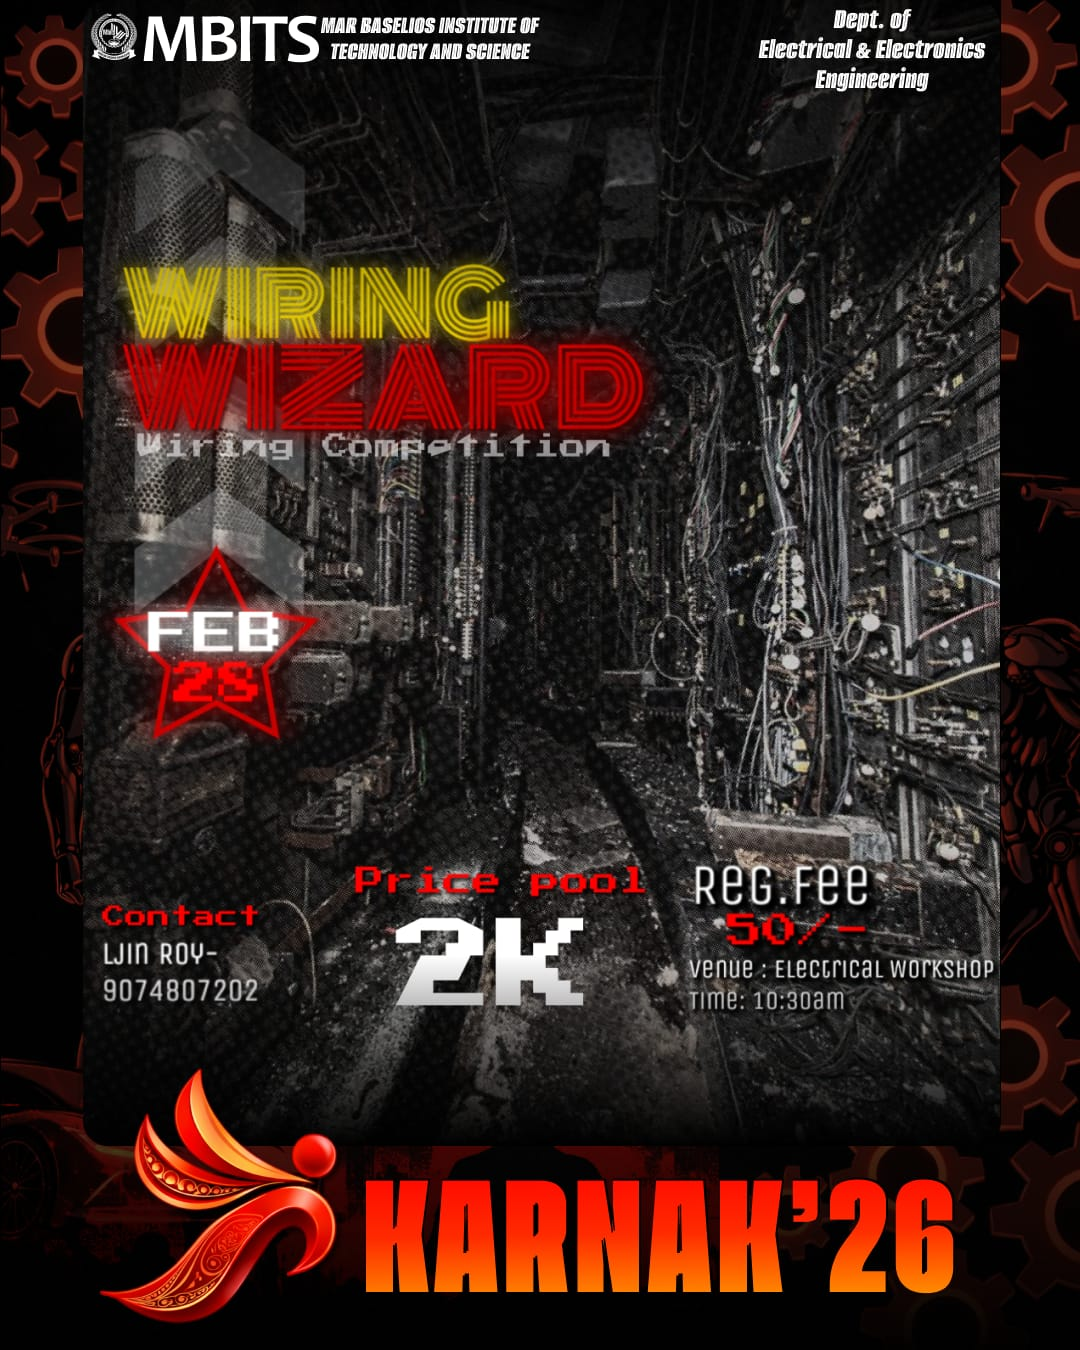
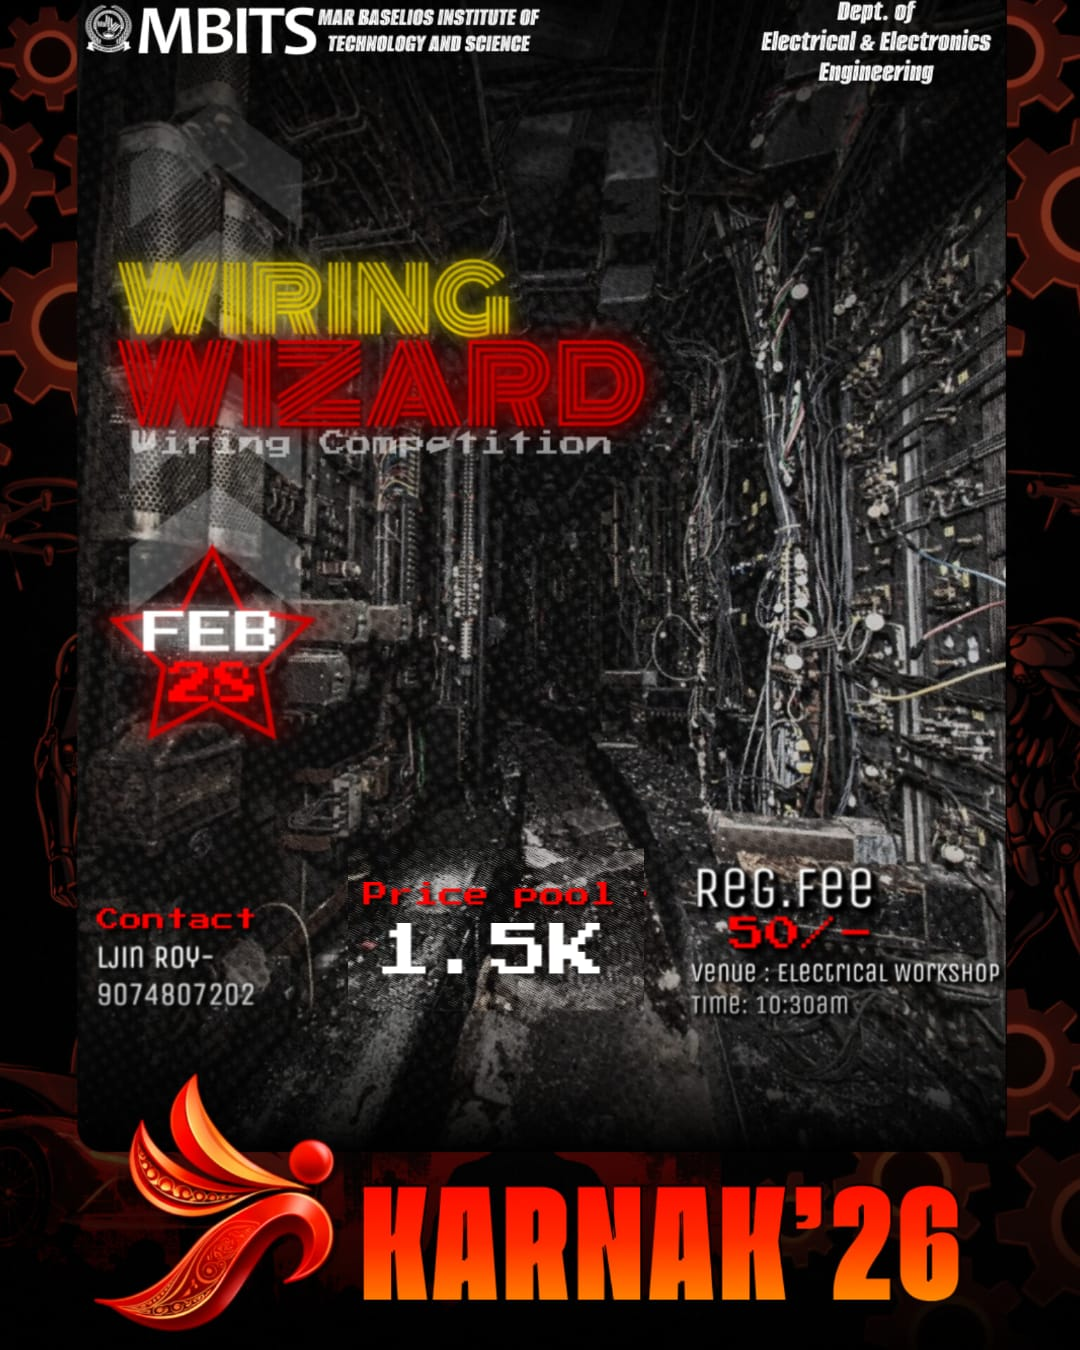
uvaibsj

diff --git a/src/app/pages/DepartmentEventsPage.tsx b/src/app/pages/DepartmentEventsPage.tsx
@@ -956,7 +956,7 @@ const departmentEvents: Record<string, any> = {
       {
         id: 6,
         name: 'Wiring wizards (wiring Competition)',
-        description: '🛠 “Every wire has a purpose and every connection has a consequence. Excellence comes from understanding both.\n”In the part of celebration of Karnak26 The department of electrical and electronics engineering presents the Wiring competition. A thrilling experience for speed,technical skill etc...\n\nRules and regulations\n●Phones are not allowed on arena \n●There will be a digital exam conducted before the competition \n●The team should come with their own tools\n●Teams must consit of one or two people ',
+        description: '🛠 “Every wire has a purpose and every connection has a consequence. Excellence comes from understanding both.\n”In the part of celebration of Karnak26 The department of electrical and electronics engineering presents the Wiring competition. A thrilling experience for speed,technical skill etc...\n\n1st price : ₹1000\n2nd price : ₹500\n\nRules and regulations\n●Phones are not allowed on arena \n●There will be a digital exam conducted before the competition \n●The team should come with their own tools\n●Teams must consit of one or two people ',
         date: 'February 28, 2026',
         time: '10:30 AM',
         fee: '50',
